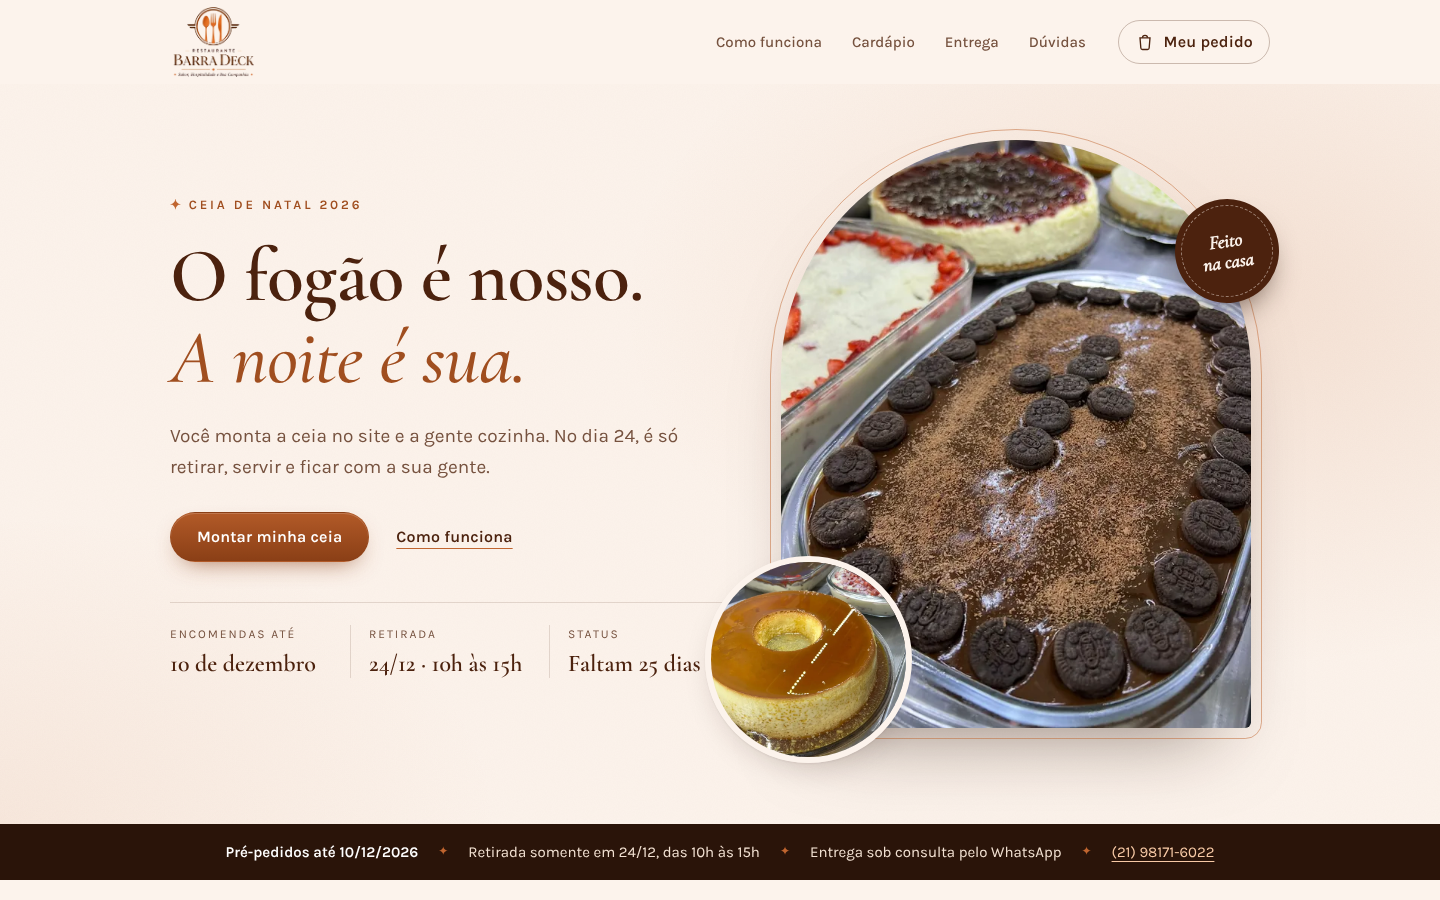
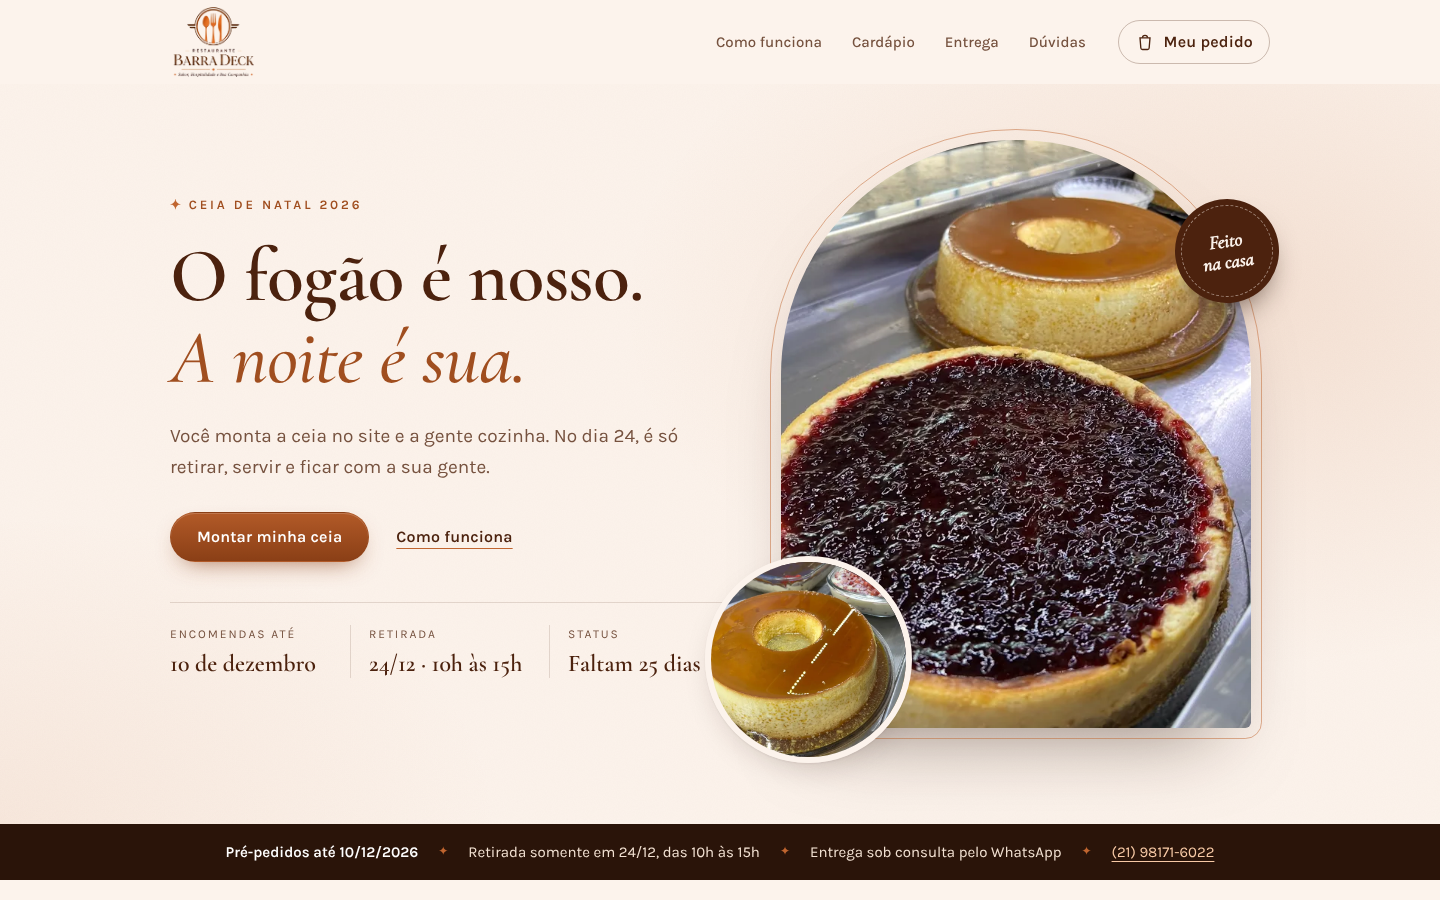
Barra Deck: capa com cheesecake e pudim
Claude-Session: https://claude.ai/code/session_012be1qk2bD8zxvFJosEMEpg

Changed region(s): [[0.5312, 0.1556, 0.875, 0.8089]]

diff --git a/estudio-dev/projetos/barra-deck-natal/index.html b/estudio-dev/projetos/barra-deck-natal/index.html
@@ -17,8 +17,8 @@
   <link rel="preconnect" href="https://fonts.googleapis.com">
   <link rel="preconnect" href="https://fonts.gstatic.com" crossorigin>
   <link href="https://fonts.googleapis.com/css2?family=Cormorant+Garamond:ital,wght@0,500;0,600;0,700;1,500&family=Karla:wght@400;500;600;700&display=swap" rel="stylesheet">
-  <link rel="stylesheet" href="/assets/css/style.css?v=ca318c5a">
-  <link rel="preload" as="image" href="/assets/img/pave-oreo-1200.webp" imagesrcset="/assets/img/pave-oreo-640.webp 640w, /assets/img/pave-oreo-1200.webp 1200w" imagesizes="(min-width: 960px) 40vw, 80vw">
+  <link rel="stylesheet" href="/assets/css/style.css?v=7e6eff22">
+  <link rel="preload" as="image" href="/assets/img/cheesecake-1200.webp" imagesrcset="/assets/img/cheesecake-640.webp 640w, /assets/img/cheesecake-1200.webp 1200w" imagesizes="(min-width: 960px) 40vw, 80vw">
 </head>
 <body>
   <a class="skip" href="#cardapio">Pular para o cardápio</a>
@@ -61,7 +61,7 @@
         </div>
         <div class="hero__art reveal">
           <figure class="arch">
-            <img src="/assets/img/pave-oreo-1200.webp" srcset="/assets/img/pave-oreo-640.webp 640w, /assets/img/pave-oreo-1200.webp 1200w" sizes="(min-width: 960px) 40vw, 80vw" alt="Pavê de Oreo com raspas de chocolate" width="1200" height="1462" fetchpriority="high">
+            <img src="/assets/img/cheesecake-1200.webp" srcset="/assets/img/cheesecake-640.webp 640w, /assets/img/cheesecake-1200.webp 1200w" sizes="(min-width: 960px) 40vw, 80vw" alt="Cheesecake de frutas vermelhas com pudim ao fundo" width="1200" height="1463" fetchpriority="high">
           </figure>
           <figure class="orb">
             <img src="/assets/img/pudim-640.webp" alt="Pudim com calda de caramelo" width="640" height="808" loading="lazy">

diff --git a/estudio-dev/projetos/barra-deck-natal/assets/css/style.css b/estudio-dev/projetos/barra-deck-natal/assets/css/style.css
@@ -363,3 +363,4 @@ button { font: inherit; color: inherit; cursor: pointer; }
 .faq__item summary::after { content: '+'; font: 400 26px/1 var(--sans); color: var(--copper); transition: transform .25s var(--ease); }
 .faq__item[open] summary::after { transform: rotate(45deg); }
 .faq__item p { color: var(--muted); padding-bottom: 20px; }
+@media (max-width: 959px) { .orb { left: -4%; } }
